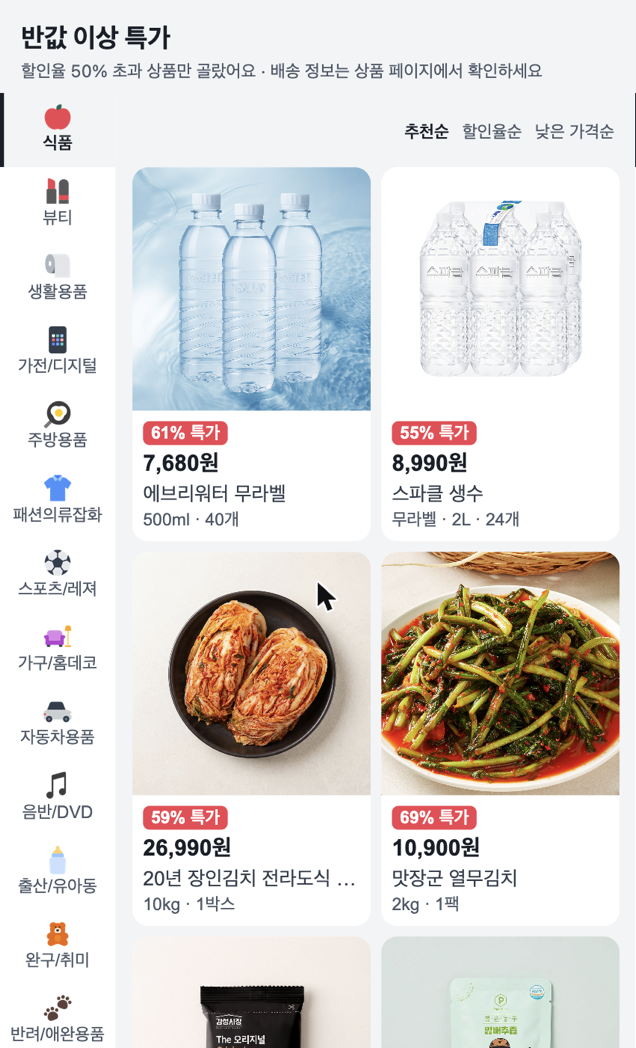
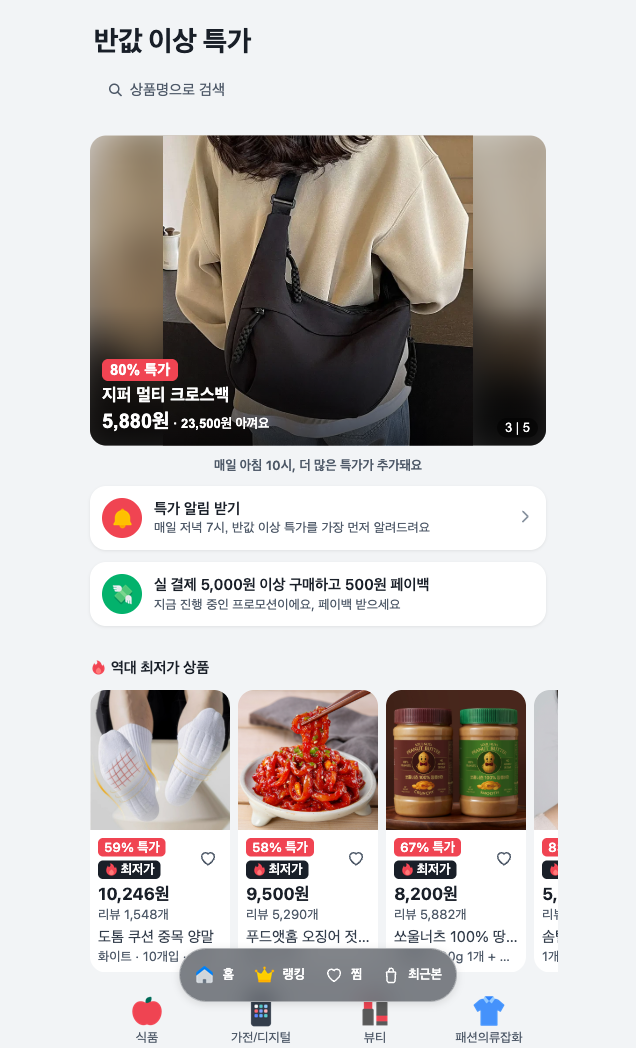
Add end date to autumn deals event and remove item cap
Event now auto-hides its entry points after 2026-10-31 instead of
running indefinitely, and shows all matching products instead of
capping at 20.

diff --git a/deep-discount-deals/src/App.tsx b/deep-discount-deals/src/App.tsx
@@ -10,7 +10,7 @@ import { usePaginatedProducts } from './usePaginatedProducts';
 import { dedupeByImage } from './dedupeByImage';
 import { dailyShuffle } from './dailyShuffle';
 import { TodaysPickEvent } from './TodaysPickEvent';
-import { AutumnDealsEvent } from './AutumnDealsEvent';
+import { AutumnDealsEvent, isAutumnDealsActive } from './AutumnDealsEvent';
 import { PopularRanking } from './PopularRanking';
 import { BannerAd } from './BannerAd';
 import { PushOptInCard } from './PushOptInCard';
@@ -243,7 +243,7 @@ function App() {
     } else if (view === 'ranking') {
       Analytics.click({ log_name: 'deep_link_open', view });
       setViewingRanking(true);
-    } else if (view === 'autumn') {
+    } else if (view === 'autumn' && isAutumnDealsActive()) {
       Analytics.click({ log_name: 'deep_link_open', view });
       setViewingAutumn(true);
     }
@@ -567,10 +567,12 @@ function App() {
                     <span className="category-grid__emoji tf">🎉</span>
                     <span className="category-grid__label">오늘의 특가 이벤트</span>
                   </button>
-                  <button type="button" className="category-grid__item" onClick={openAutumn}>
-                    <span className="category-grid__emoji tf">🍂</span>
-                    <span className="category-grid__label">가을특가</span>
-                  </button>
+                  {isAutumnDealsActive() && (
+                    <button type="button" className="category-grid__item" onClick={openAutumn}>
+                      <span className="category-grid__emoji tf">🍂</span>
+                      <span className="category-grid__label">가을특가</span>
+                    </button>
+                  )}
                 </div>
 
                 {groups.map((group) => (
@@ -708,6 +710,12 @@ function App() {
           <span className="tf quick-nav-pill__icon">🏠</span>
           <span className="quick-nav-pill__label">홈</span>
         </button>
+        {isAutumnDealsActive() && (
+          <button type="button" className="quick-nav-pill__item" onClick={openAutumn}>
+            <span className="tf quick-nav-pill__icon">🍂</span>
+            <span className="quick-nav-pill__label">가을</span>
+          </button>
+        )}
         <button type="button" className="quick-nav-pill__item" onClick={openRanking}>
           <span className="tf quick-nav-pill__icon">👑</span>
           <span className="quick-nav-pill__label">랭킹</span>

diff --git a/deep-discount-deals/src/AutumnDealsEvent.tsx b/deep-discount-deals/src/AutumnDealsEvent.tsx
@@ -3,7 +3,9 @@ import { dedupeByImage } from './dedupeByImage';
 import type { Product } from './types';
 
 const AUTUMN_CATEGORIES = ['패션의류잡화', '식품'];
-const EVENT_SIZE = 20;
+const AUTUMN_DEALS_END = new Date('2026-10-31T00:00:00+09:00');
+
+export const isAutumnDealsActive = () => new Date() < AUTUMN_DEALS_END;
 
 export function AutumnDealsEvent({
   products,
@@ -20,12 +22,13 @@ export function AutumnDealsEvent({
     products
       .filter((p) => AUTUMN_CATEGORIES.includes(p.category))
       .sort((a, b) => b.discountRate - a.discountRate)
-  ).slice(0, EVENT_SIZE);
+  );
 
   return (
     <div className="event-page">
       <h2 className="event-page__title">🍂 가을특가</h2>
       <p className="event-page__subtitle">가을에 딱 맞는 옷과 식품 특가만 모았어요</p>
+      <p className="event-page__subtitle">10월 30일까지 진행돼요</p>
 
       {autumnProducts.length === 0 ? (
         <p className="state-message">지금은 보여드릴 상품이 없어요.</p>
